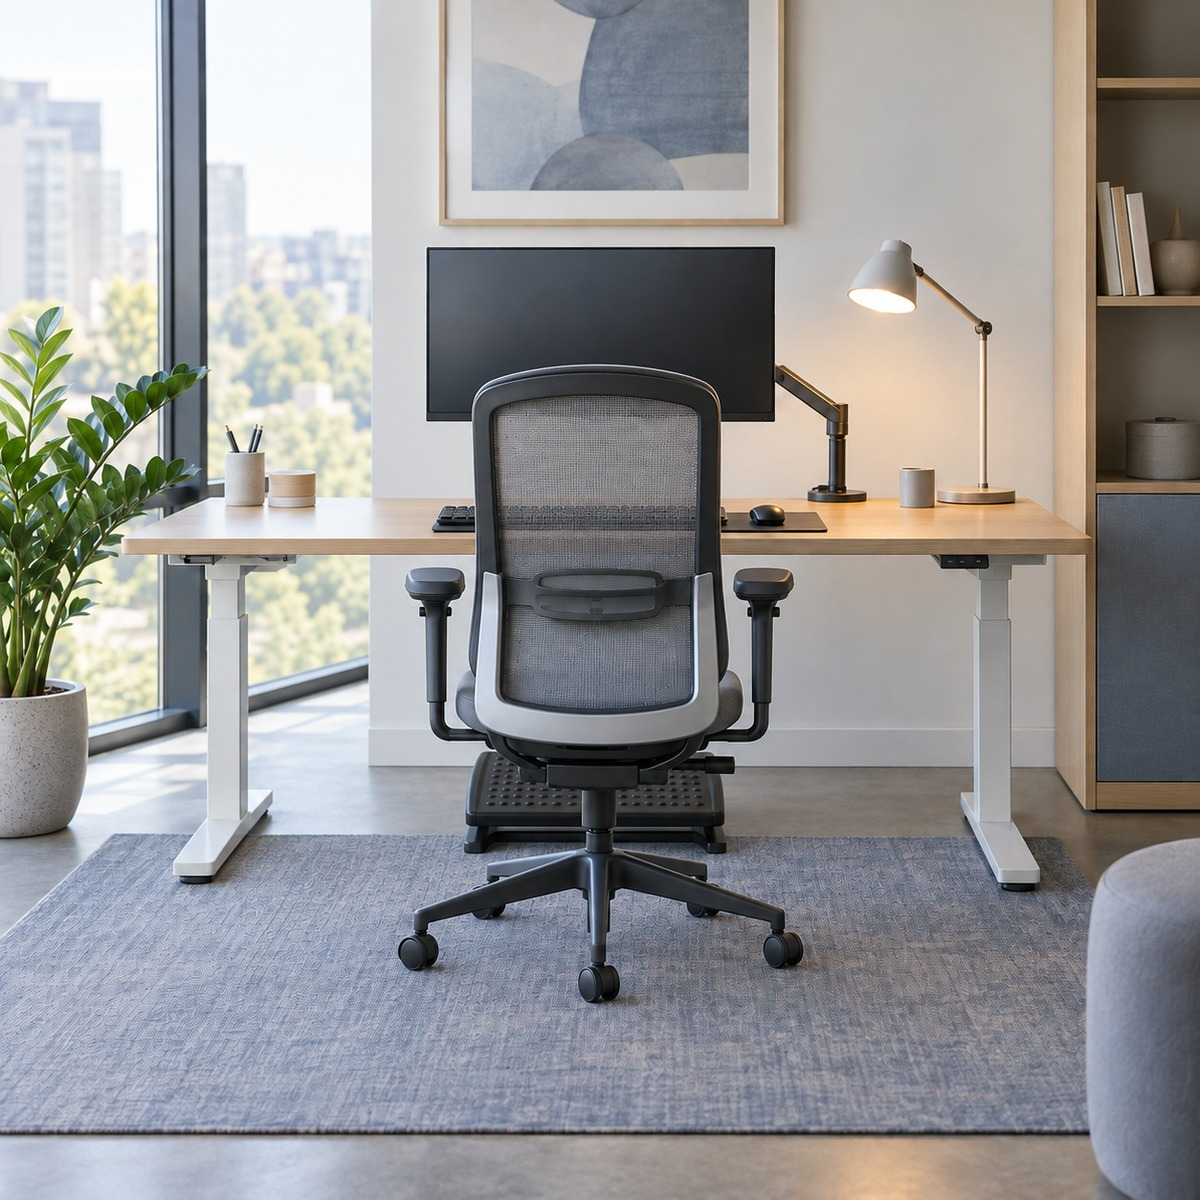
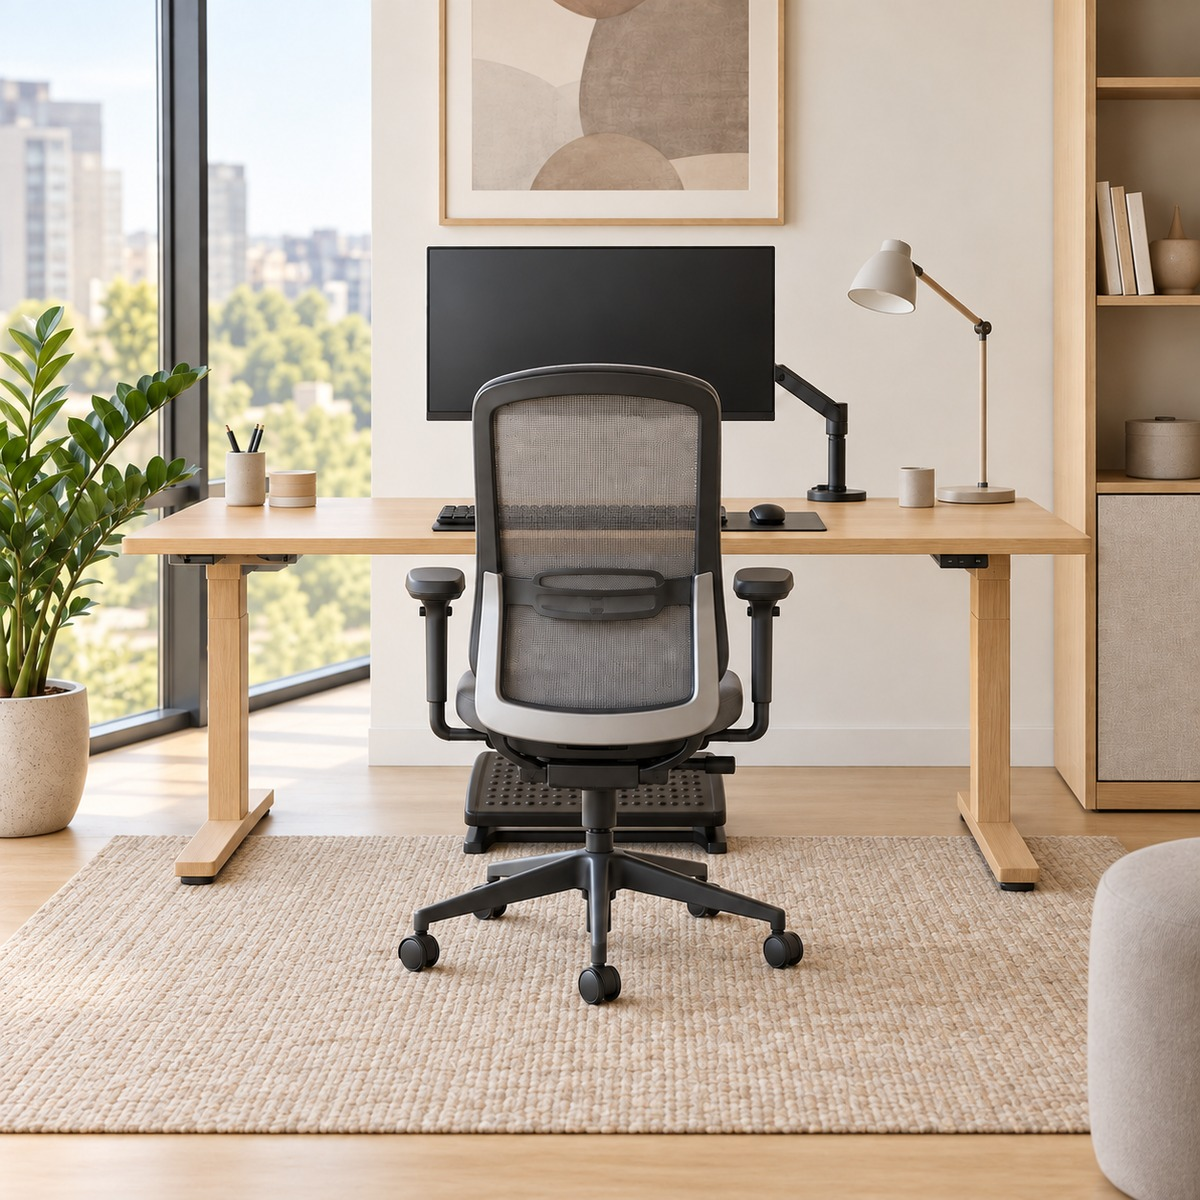
Кадры к принципам перегенерированы по замечаниям заказчика
01 — спинка кресла прижата к пояснице (монитор и клавиатура были поправлены
     в прошлой итерации).
04 — монитор вернулся на ось взгляда, больше не стоит развёрнутым у края стола.
03 — кадр приведён к серии: тёплое дерево и светлый пол вместо бетона.
Пути с ?v=2 — иначе GitHub Pages отдаёт старые файлы из кэша.

diff --git a/design/index.html b/design/index.html
@@ -167,16 +167,16 @@
            квадрат стоит от линейки до линейки. Неактивные приглушаются вместе
            со своим тезисом. Файлы — в assets/photo/principles. -->
       <figure class="dflow__ph" data-flow-ph>
-        <img src="assets/photo/principles/01.jpg" alt="Рабочее место настроено под человека: внешний монитор на уровне глаз" width="1200" height="1200" loading="lazy" decoding="async">
+        <img src="assets/photo/principles/01.jpg?v=2" alt="Рабочее место настроено под человека: внешний монитор на уровне глаз" width="1200" height="1200" loading="lazy" decoding="async">
       </figure>
       <figure class="dflow__ph" data-flow-ph>
-        <img src="assets/photo/principles/02.jpg" alt="Работа стоя за регулируемым по высоте столом" width="1200" height="1200" loading="lazy" decoding="async">
+        <img src="assets/photo/principles/02.jpg?v=2" alt="Работа стоя за регулируемым по высоте столом" width="1200" height="1200" loading="lazy" decoding="async">
       </figure>
       <figure class="dflow__ph" data-flow-ph>
-        <img src="assets/photo/principles/03.jpg" alt="Рабочее место целиком: кресло, стол, монитор, клавиатура, освещение" width="1200" height="1200" loading="lazy" decoding="async">
+        <img src="assets/photo/principles/03.jpg?v=2" alt="Рабочее место целиком: кресло, стол, монитор, клавиатура, освещение" width="1200" height="1200" loading="lazy" decoding="async">
       </figure>
       <figure class="dflow__ph" data-flow-ph>
-        <img src="assets/photo/principles/04.jpg" alt="Сбалансированная посадка: поясница на спинке, предплечья на столе, стопы на полу" width="1200" height="1200" loading="lazy" decoding="async">
+        <img src="assets/photo/principles/04.jpg?v=2" alt="Сбалансированная посадка: поясница на спинке, предплечья на столе, стопы на полу" width="1200" height="1200" loading="lazy" decoding="async">
       </figure>
 
       <div class="dflow__list">
